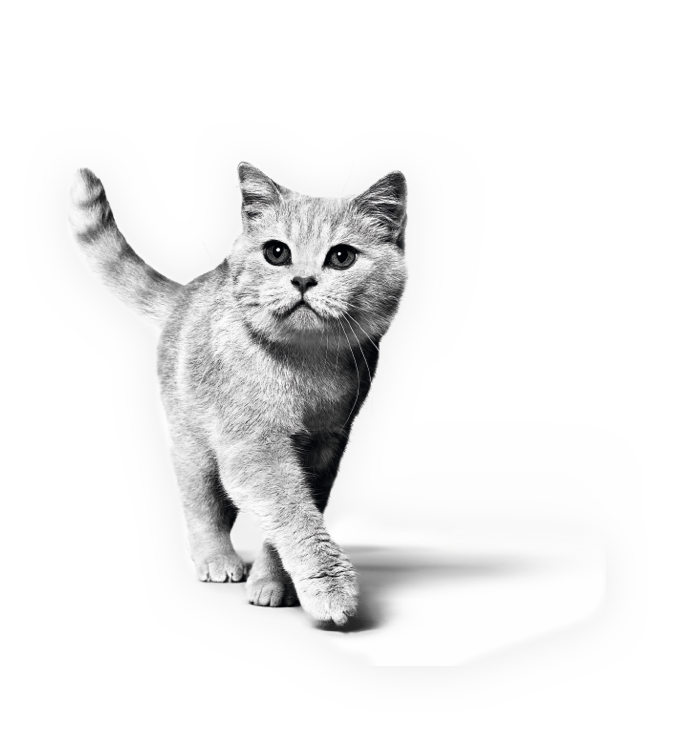
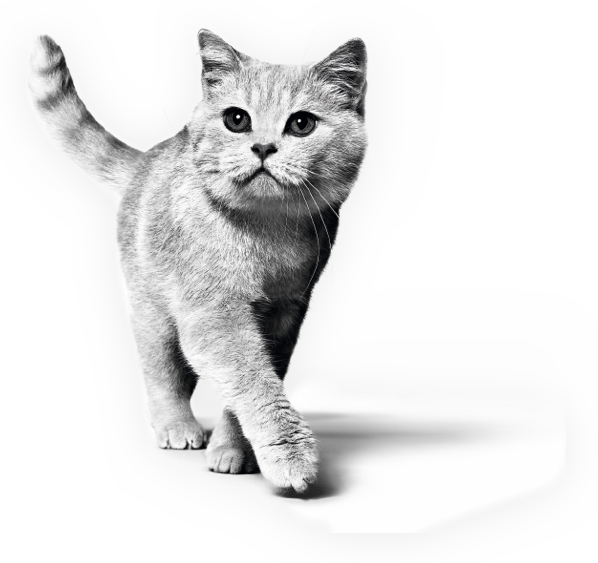
updata

Changed region(s): [[0.0602, 0.0302, 0.6321, 0.9059]]

diff --git a/src/views/PreciseCatNutrition/index.js b/src/views/PreciseCatNutrition/index.js
@@ -15,6 +15,7 @@ import DistributeHubLinkOrATag from '@/components/DistributeHubLinkOrATag';
 import { getDeviceType } from '../../utils/utils';
 import goldenfood from '../ClubLandingPageNew/image/goldenfood.png';
 import '../ClubLandingPageNew/index.css';
+import './index.less'
 import Subscription from './Components/Subscription';
 import HowItWorks from './Components/HowItWorks';
 import HelpComponents from './Components/HelpComponents';
@@ -157,35 +158,18 @@ class PreciseCatNutrition extends React.Component {
                             <h2 style={{ fontWeight: 700 }}>
                               {' '}
                               DID
-                              <div
-                                style={
-                                  isMobile
-                                    ? {
-                                        height: '60%',
+                              <div className="titleRadius"
+                                style={{
                                         fontSize: 14,
                                         backgroundColor: 'white',
                                         color: '#E2001A',
                                         display: 'inline',
                                         borderRadius: '50%',
                                         position: 'absolute',
-                                        left: 163,
                                         top: 7,
                                         padding: 2,
                                         fontWeight: 500
-                                      }
-                                    : {
-                                        height: '54%',
-                                        fontSize: 14,
-                                        backgroundColor: 'white',
-                                        color: '#E2001A',
-                                        display: 'inline',
-                                        borderRadius: '50%',
-                                        position: 'absolute',
-                                        left: 222,
-                                        top: 7,
-                                        padding: 2,
-                                        fontWeight: 500
-                                      }
+                                }
                                 }
                               >
                                 {' '}
@@ -492,8 +476,8 @@ class PreciseCatNutrition extends React.Component {
                 <div className="rc-full-width">
                   <div className="experience-component experience-layouts-cardcarousel">
                     <div className="rc-margin-bottom--md rc-margin-bottom--xl--mobile text-center">
-                      <div className="rc-max-width--lg rc-padding-x--lg rc-padding-x--md--mobile rc-margin-y--sm rc-margin-y--lg--mobile value-proposition text-left">
-                        <p>
+                      <div className="rc-max-width--lg rc-padding-x--lg rc-margin-y--sm rc-margin-y--lg--mobile value-proposition text-left">
+                        <p style={{marginBottom:0}}>
                           * Overweight can shorten an animal's life by up to 2
                           years. And it can increase the risk of diabetes,
                           urinary tract diseases, arthritis and skin problems.
@@ -502,7 +486,7 @@ class PreciseCatNutrition extends React.Component {
                           Med 2018; 1-11
                         </p>
                         <p>
-                          1] This is just a figurative price but the
+                          [1] This is just a figurative price but the
                           subscription is only available for 30 days.
                         </p>
                       </div>

diff --git a/src/views/PreciseCatNutrition/Components/Subscription.js b/src/views/PreciseCatNutrition/Components/Subscription.js
@@ -57,7 +57,7 @@ const subscription = () => {
                       style={{
                         display: 'flex',
                         justifyContent: 'center',
-                        alignItems: 'center'
+                        alignItems: 'center',
                       }}
                     >
                       <LazyLoad height={200}>
@@ -67,8 +67,8 @@ const subscription = () => {
                         />
                       </LazyLoad>
                     </div>
-                    <div className="col-8 col-md-12 text-md-left value-proposition__text pr-0 py-0">
-                      <p className="rc-margin-bottom--none  ">
+                    <div className="col-8 col-md-12 value-proposition__text pr-0 py-0">
+                      <p className="rc-margin-bottom--none" style={{ textAlign:isMobile?'left':'center'}}>
                         Automatic & flexible delivery at door every month
                         {/*<FormattedMessage id={'ClubLP.SubscriptionBenefitsNew.icon1'} />*/}
                       </p>
@@ -92,9 +92,9 @@ const subscription = () => {
                         />
                       </LazyLoad>
                     </div>
-                    <div className="col-8 col-md-12 text-md-left value-proposition__text pr-0 py-0">
+                    <div className="col-8 col-md-12 value-proposition__text pr-0 py-0">
                       <p
-                        className="rc-margin-bottom--none  "
+                        className="rc-margin-bottom--none" style={{ textAlign:isMobile?'left':'center'}}
                         // // style={{ fontSize: 14}}
                       >
                         A personal pet advisor available for you
@@ -122,9 +122,9 @@ const subscription = () => {
                         />
                       </LazyLoad>
                     </div>
-                    <div className="col-8 col-md-12 text-md-left value-proposition__text pr-0 py-0">
+                    <div className="col-8 col-md-12 value-proposition__text pr-0 py-0">
                       <p
-                        className="rc-margin-bottom--none  "
+                        className="rc-margin-bottom--none" style={{ textAlign:isMobile?'left':'center'}}
                         // // style={{ fontSize: 14}}
                       >
                         A welcome pack with a scale & all materials to properly
@@ -153,8 +153,8 @@ const subscription = () => {
                         />
                       </LazyLoad>
                     </div>
-                    <div className="col-8 col-md-12 text-md-left value-proposition__text pr-0 py-0">
-                      <p className="rc-margin-bottom--none  ">
+                    <div className="col-8 col-md-12 value-proposition__text pr-0 py-0">
+                      <p className="rc-margin-bottom--none" style={{ textAlign:isMobile?'left':'center'}}>
                         Enjoy a loyalty program with exclusive gift to stimulate
                         your pet
                         {/*<FormattedMessage*/}
@@ -181,8 +181,8 @@ const subscription = () => {
                         />
                       </LazyLoad>
                     </div>
-                    <div className="col-8 col-md-12 text-md-left value-proposition__text pr-0 py-0">
-                      <p className="rc-margin-bottom--none  ">
+                    <div className="col-8 col-md-12 value-proposition__text pr-0 py-0">
+                      <p className="rc-margin-bottom--none" style={{ textAlign:isMobile?'left':'center'}}>
                         Tailored professional advice & tips
                         {/*<FormattedMessage*/}
                         {/*  id={'ClubLP.SubscriptionBenefitsNew.icon5'}*/}

diff --git a/src/views/PreciseCatNutrition/Components/HelpComponents.js b/src/views/PreciseCatNutrition/Components/HelpComponents.js
@@ -22,7 +22,7 @@ const HelpComponents = () => {
                     {/*<FormattedMessage id="ClubLP.Help.title" />*/}
                   </h2>
                 </div>
-                <p>
+                <p style={{marginBottom: 0}}>
                   <span>
                     Our team is available to answer your questions and ensure
                     you have the best possible experience.
@@ -45,7 +45,7 @@ const HelpComponents = () => {
                                   <b
                                     style={{
                                       color: '#E2001A',
-                                      fontWeight: 500
+                                      fontWeight: 600
                                     }}
                                   >
                                     {/*<FormattedMessage id="ClubLP.Help.call.title" />*/}
@@ -115,7 +115,7 @@ const HelpComponents = () => {
                                   </b>
                                   <p style={{ marginBottom: 0 }}>
                                     We'll do our best to get back to you as fast
-                                    as possible : and within 12 hours
+                                    as possible and within 12 hours
                                     {/*<FormattedMessage id="ClubLP.Help.email.content" />*/}
                                   </p>
                                   <DistributeHubLinkOrATag
@@ -131,7 +131,7 @@ const HelpComponents = () => {
                                         marginBottom: 0
                                       }}
                                     >
-                                      Send US an Email
+                                      Send us an Email
                                       {/*<FormattedMessage id="ClubLP.Help.email.address" />*/}
                                     </p>
                                   </DistributeHubLinkOrATag>

diff --git a/src/views/PreciseCatNutrition/Components/LongBanner.js b/src/views/PreciseCatNutrition/Components/LongBanner.js
@@ -61,6 +61,7 @@ const LongBanner = () => {
                     {/*<FormattedMessage id="ClubLP.LongBanner.content" />*/}
                   </p>
                   <strong style={{ color: '#000000' }}>0,90€ / day</strong>
+                  <sup style={{    color: '#666666',fontSize: 16, top: '-1em'}}>[1]</sup>
                   <p style={{ color: '#555555' }}>25,50€ / month</p>
                   <a
                     onClick={() => {
@@ -175,12 +176,12 @@ const LongBanner = () => {
             <img
               style={
                 isMobile
-                  ? { width: '80%', position: 'absolute', left: '0%' }
+                  ? { width: '80%', position: 'absolute', left: '0%',top: '-220px', zIndex: -100}
                   : {
-                      width: '48%',
+                      width: '40%',
                       position: 'absolute',
                       left: ' -8%',
-                      top: -350
+                      top: -250
                     }
               }
               src={topCat}
@@ -188,7 +189,7 @@ const LongBanner = () => {
             <img
               style={
                 isMobile
-                  ? { width: '60%', position: 'absolute', right: '0%' }
+                  ? { width: '60%', position: 'absolute', right: '0%',top: '-158px' }
                   : {
                       width: '35%',
                       position: 'absolute',
@@ -206,7 +207,7 @@ const LongBanner = () => {
                       width: 90,
                       height: 90,
                       position: 'absolute',
-                      top: -220,
+                      top: -188,
                       right: '0%',
                       zIndex: 2
                     }

diff --git a/src/views/PreciseCatNutrition/index.less b/src/views/PreciseCatNutrition/index.less
@@ -23,6 +23,15 @@
 //  background-size: 100%;
 //  background-repeat: no-repeat ;
 //}
+.titleRadius{
+  height: 54%;
+  left: 222px;
+  @media (max-width: 480px) {
+    height: 60%;
+    left: 166px;
+  }
+
+}
 
 .questionnaire-container{
   background-color: #e8e8e8;
